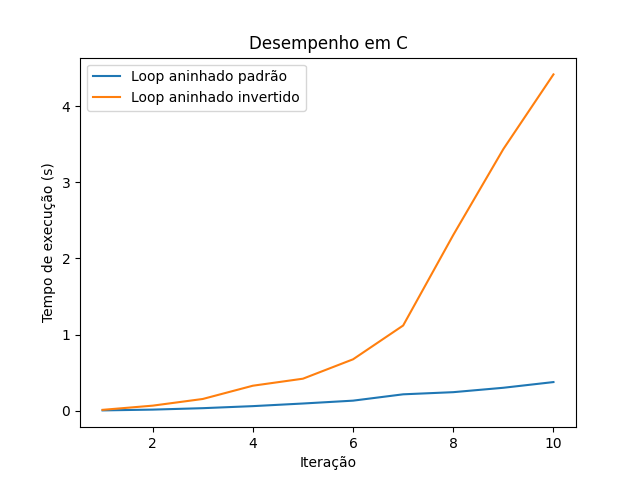
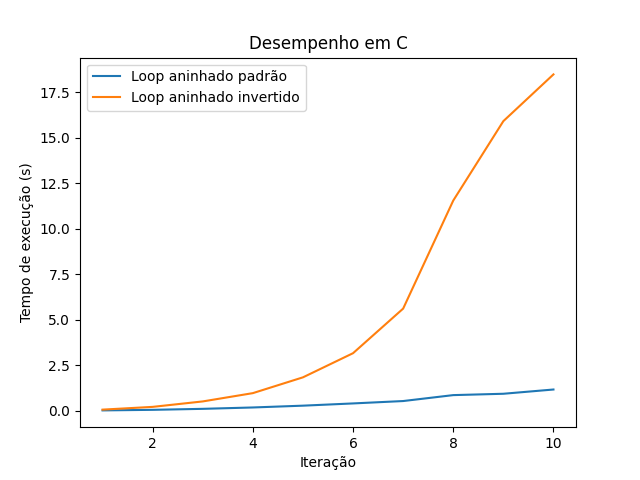
corrigindo código C (versão final)

diff --git a/TP1/sistema_linear.c b/TP1/sistema_linear.c
@@ -1,19 +1,19 @@
 #include <stdio.h>
 #include <stdlib.h>
 #include <time.h>
+#include <sys/sysinfo.h>
+#include <math.h>
 
-
-
-void matrix_vector_produto(double** A, double *x, double *b, int *n, int *m) {
+void matrix_vector_produto(double** A, double *x, double *b, int *n) {
     for (int i = 0; i < (*n); i++) {
-        for (int j = 0; j < (*m); j++) {
+        for (int j = 0; j < (*n); j++) {
             b[i] += A[i][j] * x[j];
         }
     }
 }
 
-void matrix_vector_produto_invertido(double** A, double *x, double *b, int *n, int *m) {
-    for (int j = 0; j < (*m); j++) {
+void matrix_vector_produto_invertido(double** A, double *x, double *b, int *n) {
+    for (int j = 0; j < (*n); j++) {
         for (int i = 0; i < (*n); i++) {
             b[i] += A[i][j] * x[j];
         }
@@ -21,25 +21,31 @@ void matrix_vector_produto_invertido(double** A, double *x, double *b, int *n, i
 }
 
 int main(){
+    struct sysinfo info;
+    sysinfo(&info);
+
+    long long int max_size = info.freeram;
+    printf("Quantidade de RAM livre: %lld\n",max_size);
 
     srand(time(NULL));
-    int n_max = 10000;
-    int m_max = 10000;
-    int n, m;
+    int n_max = sqrt((max_size / 4) / (sizeof(double)));
+
+    printf("Memória disponível para cada vetor: %d\n", n_max);
+
+    int n;
     clock_t start, end;
     double cpu_time_used1, cpu_time_used2;
     FILE* f = fopen("Resultados/resultados_C.txt", "w");
     
     for (int k = 1; k <= 10; k++) {
         n = k * n_max / 10;
-        m = k * m_max / 10;
         double** A = (double**) malloc(n * sizeof(double*));
         if (A == NULL) {
             printf("Erro ao alocar memória para A!\n");
             return 1;
         }
 
-        double *x = (double *) malloc(m * sizeof(double));
+        double *x = (double *) malloc(n * sizeof(double));
         if (x == NULL) {
             printf("Erro ao alocar memória para x!\n");
             for (int i = 0; i < n; i++) {
@@ -49,7 +55,7 @@ int main(){
             return 1;
         }
 
-        double *b = (double *) malloc(m * sizeof(double));
+        double *b = (double *) malloc(n * sizeof(double));
         if (b == NULL) {
             printf("Erro ao alocar memória para b!\n");
             for (int i = 0; i < n; i++) {
@@ -62,8 +68,8 @@ int main(){
 
 
         for (int i = 0; i < n; i++){
-            A[i] = (double*) malloc(m * sizeof(double));
-            for (int j = 0; j < m; j++){
+            A[i] = (double*) malloc(n * sizeof(double));
+            for (int j = 0; j < n; j++){
                 A[i][j] = ((double)rand()/(double)RAND_MAX) * 10.0 - 5.0;
             }
             b[i] = 0;
@@ -73,20 +79,20 @@ int main(){
    
     // Loop aninhado padrão: i, j
     start = clock();
-    matrix_vector_produto(A, x, b, &n, &m);
+    matrix_vector_produto(A, x, b, &n);
     end = clock();
     cpu_time_used1 = ((double) (end - start)) / CLOCKS_PER_SEC;
-    printf("Matriz %dx%d: Tempo de execução com loop aninhado padrão (i,j): %lf segundos\n", n, m, cpu_time_used1);
+    printf("Matriz %dx%d: Tempo de execução com loop aninhado padrão (i,j): %lf segundos\n", n, n, cpu_time_used1);
 
     // Loop aninhado invertido: j, i
     start = clock();
-    matrix_vector_produto_invertido(A, x, b, &n, &m);
+    matrix_vector_produto_invertido(A, x, b, &n);
     end = clock();
     cpu_time_used2 = ((double) (end - start)) / CLOCKS_PER_SEC;
-    printf("Matriz %dx%d: Tempo de execução com loop aninhado invertido (j,i): %lf segundos\n\n", m, n, cpu_time_used2);
+    printf("Matriz %dx%d: Tempo de execução com loop aninhado invertido (j,i): %lf segundos\n\n", n, n, cpu_time_used2);
 
     
-    fprintf(f, "%dx%d %d %lf %lf\n", n, m, k, cpu_time_used1, cpu_time_used2);
+    fprintf(f, "%dx%d %d %lf %lf\n", n, n, k, cpu_time_used1, cpu_time_used2);
 
     // liberando memória alocada
     for (int i = 0; i < n; i++) {
